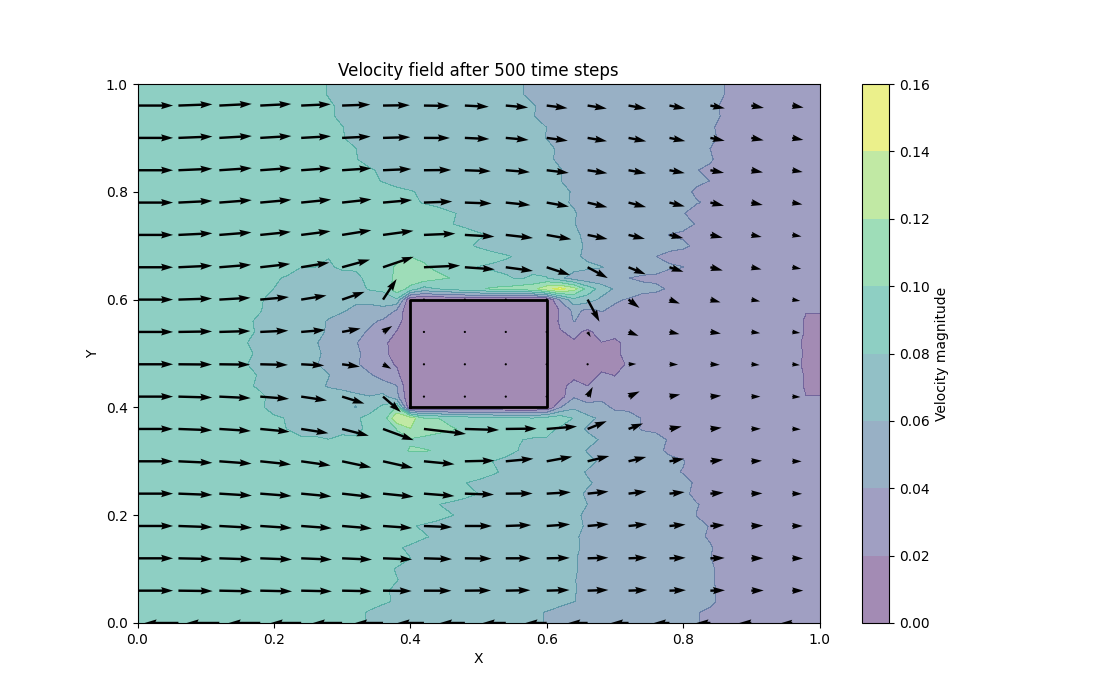
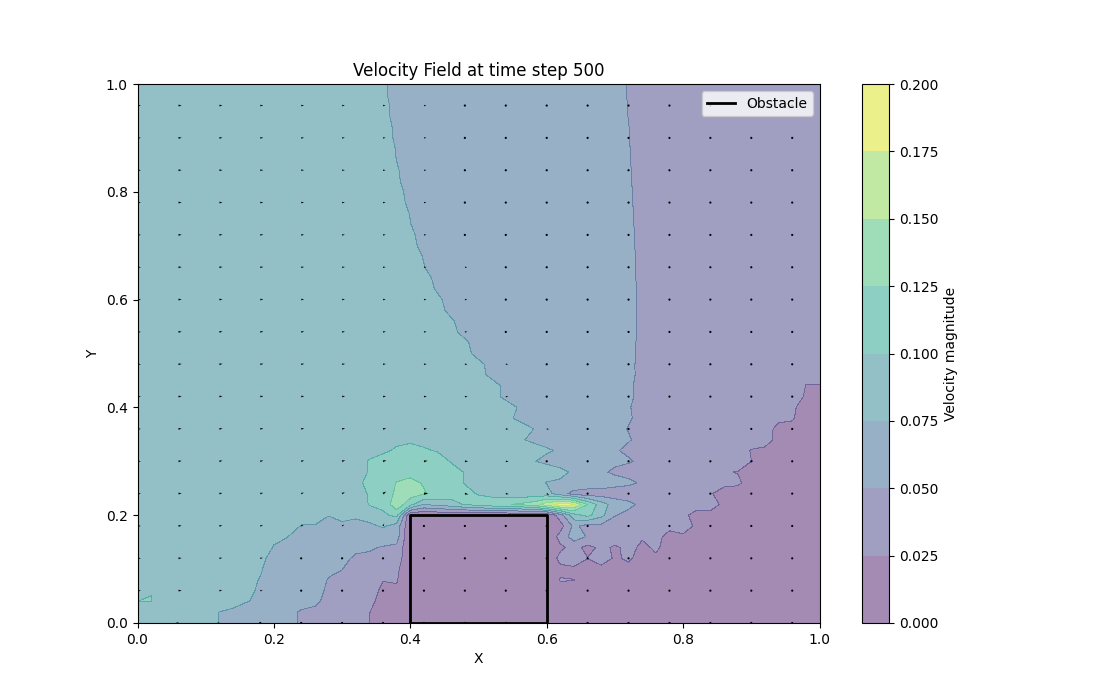
Add all files and update changes

diff --git a/decarb.py b/decarb.py
@@ -6,7 +6,7 @@ from matplotlib.patches import Rectangle
 
 """ vvv Number of iterations and wind profile vvv  and other parameters"""
 
-nt = 10000 #timesteps
+nt = 10 #timesteps
 apply_wind_profile = True #apply power-law profile (true) or uniform profile)
 apply_obstacle_mask = True  # Set to False to disable the obstacle mask
 initialize_flow = True
@@ -486,6 +486,8 @@ for n in range(nt):
     tolerance = 1e-3  # Convergence tolerance
     max_iterations = 100000  # Maximum number of iterations to prevent infinite looping
     omega = 0.7  # relaxation factor
+    pressure_convergence = []
+    pressure_iterations = []
     for it in range(max_iterations):  # Maximum number of Poisson iterations per time step
         pn = p.copy()
         p[1:-1,1:-1] = (1-omega)*pn[1:-1,1:-1] + omega * (
@@ -498,11 +500,15 @@ for n in range(nt):
         # pressure boundary conditions
         p = apply_boundary_conditions(u_frac, v_frac, p, c)[2]
         max_diff = np.max(np.abs(p - pn))  # Maximum difference at any node
+        pressure_convergence.append(max_diff)
         if max_diff < tolerance:
             print(f"n: {n}, Pressure convergence, iter: {it} iterations")
+            pressure_iterations.append(it)
             break
     else:
-        print(f"n: {n}, pressure, did not converge")
+        if it == max_iterations - 1:
+            pressure_iterations.append(max_iterations)
+            print(f"n: {n}, pressure, did not converge")
     p_n = p
     
     # Update u-velocity
@@ -756,3 +762,24 @@ cmax = np.max(c_n)
 cmax_loc = np.argmax(c_n)
 rowmax, colmax = np.unravel_index(cmax_loc,c.shape)
 print(f'max_c:{cmax} at x:{colmax} and y:{rowmax}')
+
+plt.figure(figsize=(8, 6))
+plt.plot(range(len(pressure_convergence)), pressure_convergence, label="Pressure Convergence")
+plt.yscale('log')  # Logarithmic scale
+plt.xlabel("Iteration")
+plt.ylabel("Maximum Pressure Difference")
+plt.title("Pressure Convergence")
+plt.grid(True)
+plt.legend()
+plt.savefig("Pressure Convergence Plot")
+plt.show()
+
+plt.figure(figsize=(8, 6))
+plt.plot(range(len(pressure_iterations)), pressure_iterations, label="Pressure Solver Iterations")
+plt.xlabel("Timestep (n)")
+plt.ylabel("Number of Iterations to Converge")
+plt.title("Pressure Solver Convergence per Timestep")
+plt.grid(True)
+plt.legend()
+plt.savefig("Pressure Solver Convergence")
+plt.show()
